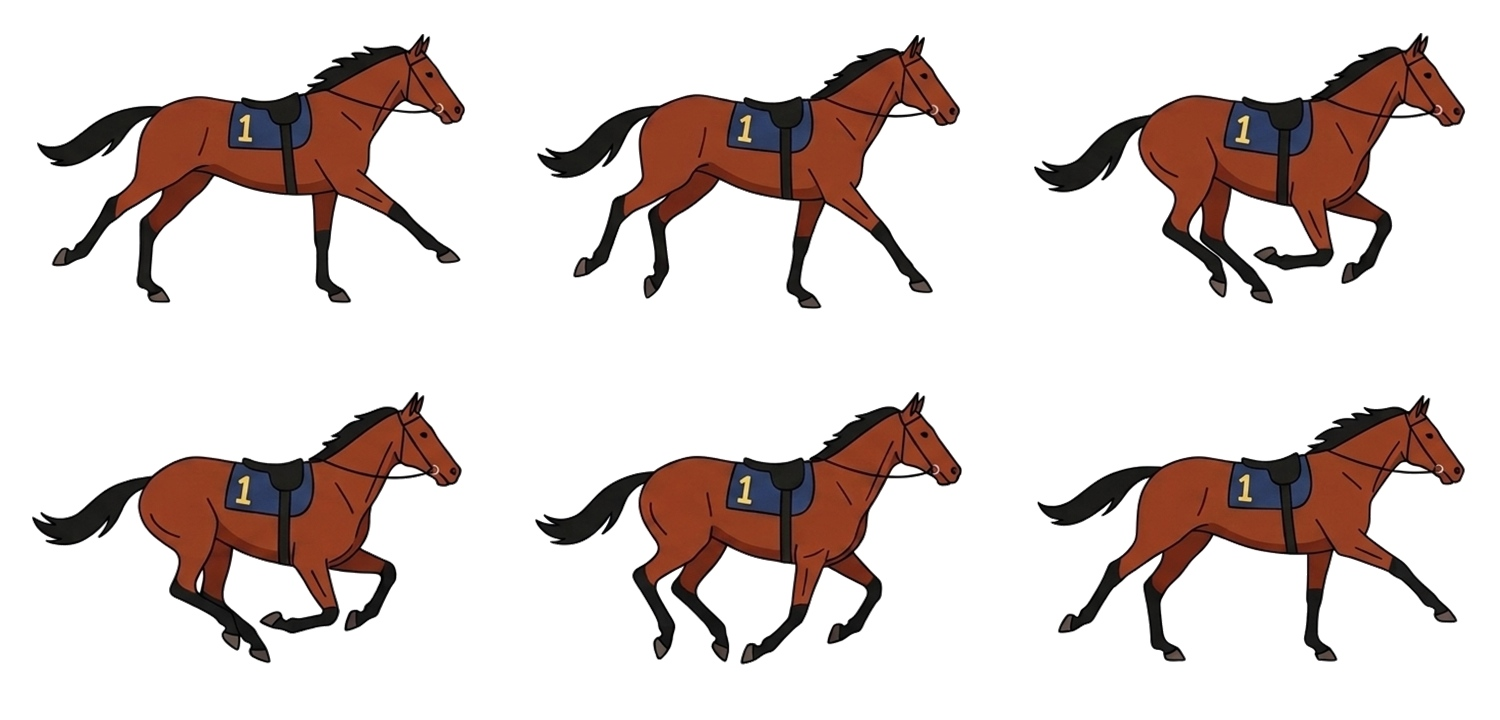
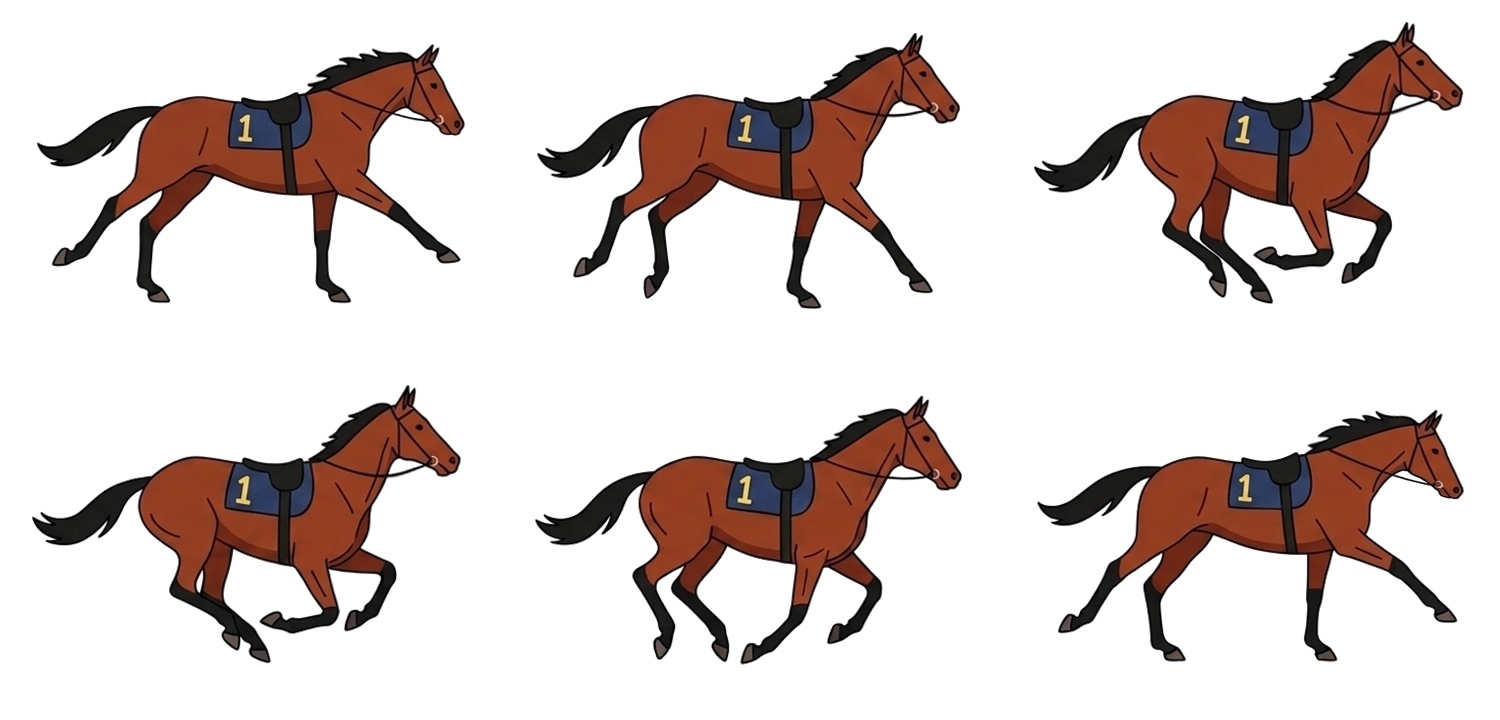
feat: 週末レースアニメ（④）へのギャロップ首振り（上げ下げ）モーションの追加と仕様書更新
- 脚の運びに同期した首の上げ下げ（3〜4コマ目の収縮・後肢着地で引き上げ、5〜6〜1コマ目の後肢推進・最大伸展で低く前へ突き出す動き）を週末レースアニメ（bay_race_gallop.jpg, chestnut_race_gallop.jpg）に追加
- 胴体の3点座標ロック（背中・肩・胸）および手綱間の透過を維持した下部頸椎ピボット回転仕様を docs/specs/horse-visual-assets.md に追記

diff --git a/docs/specs/horse-visual-assets.md b/docs/specs/horse-visual-assets.md
@@ -55,12 +55,24 @@
 
 1. **必ず背景を透過させる閉領域**:
    - 外周4辺からのフラッドフィル透過に加え、黒線で囲まれた以下の閉領域にも透過シードを配置し、アンチエイリアスの白灰色フチも含めて完全透過させる：
-     - **頭・首・手綱の間の三角形空間**: セル内 `X: 365..420, Y: 85..120`
+     - **頭・首・手綱の間の三角形空間**: セル内 `X: 355..430, Y: 70..140`（首の上下動範囲を包含）
      - **交差する脚の間の閉空間**: セル内 `Y >= 180`（特に **3コマ目・4コマ目の交差する右後肢と左後肢の間の空間**）
 2. **純白のまま100%保護する領域（② 平日調教アニメ）**:
    - **白ゼッケン内部（`X: 175..318, Y: 80..165`）**: 背景の白と混同して透過されないよう、外周フラッドフィルから隔離して純白（`#FFFFFF`）で塗りつぶす。
 3. **腹帯（ガース）の完全保持**:
    - 鞍・ゼッケンから下へ伸びる黒い腹帯（`X: 268..304, Y: 145..206`）は、全6コマにおいて途中で途切れることなく **腹の下端輪郭線まで完全に繋がって胴体を巻いている状態** を維持する。
+
+### ③ 週末レース専用：脚の運びに同期した「首の上げ下げ（ヘッドボブ）」仕様
+平日調教アニメ（②）はキャンター調の安定した一定姿勢とする一方、**週末レースアニメ（④ `{coat}_race_gallop.jpg`）のみ**、全力疾走（ギャロップ）の躍動感を表現するため、胴体3点座標ロックを維持したまま下部頸椎（セル内 `X = 348.0, Y = 114.0`）を軸とした **首・頭の上げ下げ回転モーション** を付与します（き甲 `X=308, Y=92` 〜 胸前上端 `X=368, Y=124` の首の付け根ラインより後方の胴体・鞍・ゼッケン・腹帯・4本脚は `0.0px` 固定）。
+
+| コマ | 脚の運び（ギャロップのフェーズ） | 首・頭の動き（カウンターバランス） | 回転角度 (`deg`) |
+| :---: | :--- | :--- | :---: |
+| **Frame 1** | 前肢リーチ・左前肢着地 | 前肢の伸展に合わせて首を低く前へ伸ばす | **`+7.5°`**（下・前傾） |
+| **Frame 2** | 前肢支持・乗り越し | 地面を蹴り、浮遊期へ向けて首を引き上げ始める | **`-1.5°`**（中位・上昇中） |
+| **Frame 3** | 完全浮遊期（4肢折りたたみ収縮） | 4肢を腹下へ引き込む反動で首と頭を最も高く引き上げる | **`-9.5°`**（最高点ピーク） |
+| **Frame 4** | 後肢着地（踏み込み開始） | 後肢が着地し、高い位置から前へ振り下ろし始める | **`-6.0°`**（高め・下降開始） |
+| **Frame 5** | 後肢推進（蹴り出し・前躯伸展） | 後肢の蹴り出しと連動して首を前下方へ力強く振り下ろす | **`+3.0°`**（中下位・下降中） |
+| **Frame 6** | 最大伸展（フルストライド） | 全身が最も伸びる瞬間に首を最も低く前へ突き出す | **`+10.5°`**（最下点・最大伸展） |
 
 ---
 
